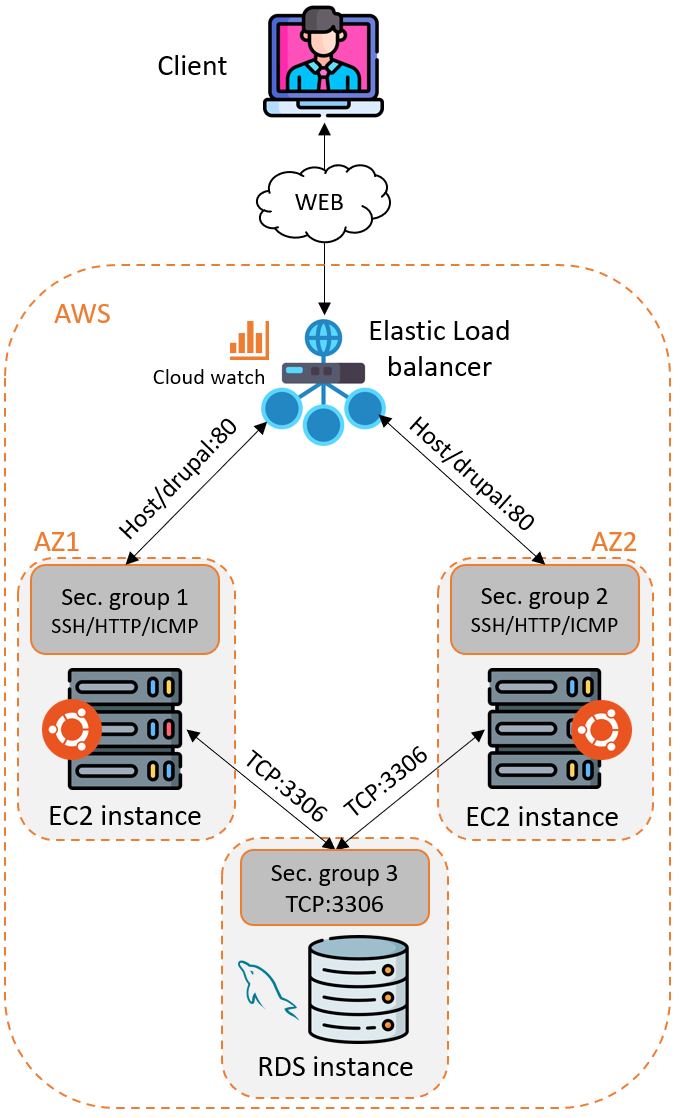
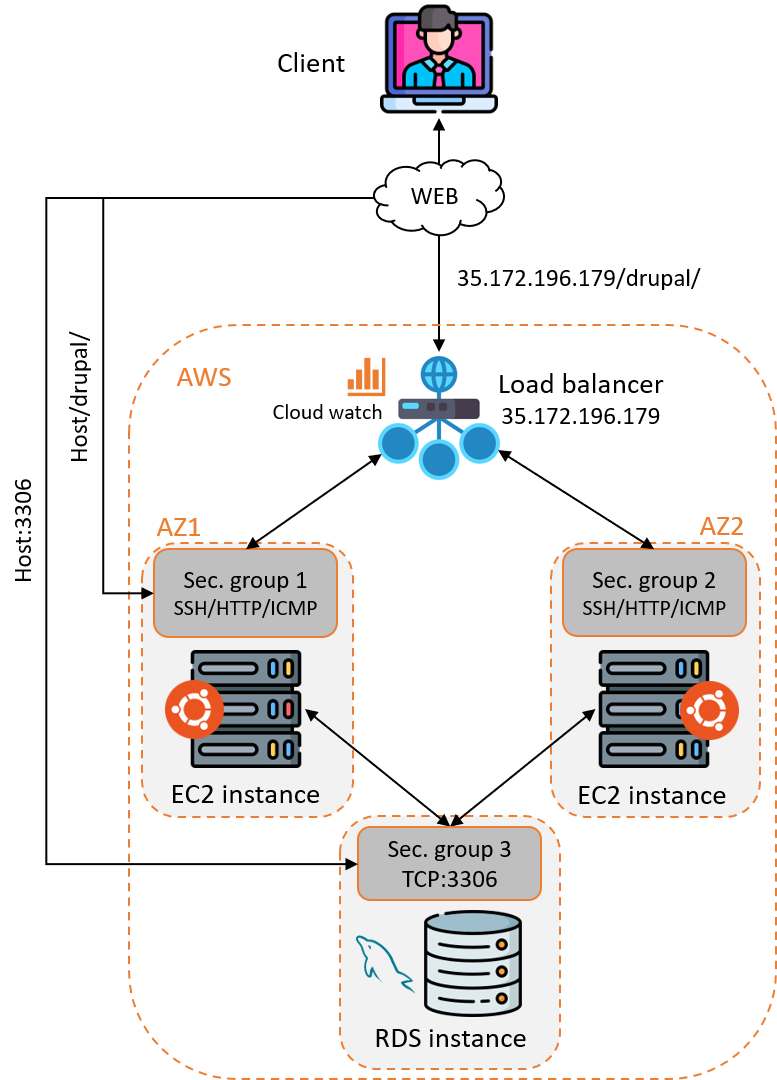
Small corrections

diff --git a/README.md b/README.md
@@ -15,10 +15,11 @@
 
 ## Introduction
 
-
 This document contains all the deliverables of the laboratory #2 of the CLD course. We will not include the precise procedure followed by our group along the lab, however, we will discuss some elements and configurations about this laboratory.
 
-## Create a database using RDS
+In this lab, we are going to create a RDS instance that runs MySQL, then we will migrate the Drupal database from our EC2 instance to the RDS one. After that we will create a load balancer to balance the traffic on 2 of our EC2 instances. Finally we will do some load tests with Jmeter and discuss the results.
+
+## Part 1: Create a database using RDS
 
 In this task, we had to create and configure a AWS RDS instance that runs MySQL 8.0.27.
 
@@ -94,13 +95,13 @@ We can see that the RDS is more expensive that the corresponding EC2 instance (5
 | Hardware lifecycle          | AWS                   | AWS                   |
 | Power, network, and cooling | AWS                   | AWS                   |
 
-We can see that a lot of feature is managed by AWS instead of the customer (fully managed), and this management has an extra cost. Now if we compare with on-premise management, it would be fully done by the user. So an IT manager would assume full responsibility for the server, operating system, and software.
+We can see that a lot of features are managed by AWS instead of the customer (fully managed), and this management has an extra cost. Now if we compare with on-premise management, it would be fully done by the user. So an IT manager would assume full responsibility for the server, operating system, and software.
 
 ### 1.3 RDS vs EC2 analysis 
 
 #### Arguments in favor of RDS
 
-RDS offers automatic backups and encryption. RDS takes full responsibility for the database. Configuration, management, maintenance, and security is automated by AWS. It allows to configure read replicas or set up synchronous replication across multiple AZ for enhanced performance and availability. It could be a huge time saver if we had to deploy a DB in multiple AZ with multiple stanbys, but time is money, so this solution is more expensive. Inspired by this [Source](https://serverguy.com/comparison/pros-cons-rds-vs-ec2-mysql-aws/)
+RDS offers automatic backups and encryption. RDS takes full responsibility for the database. Configuration, management, maintenance, and security is automated by AWS. It allows to configure read replicas or set up synchronous replication across multiple AZ for enhanced performance and availability. It could be a huge time saver if we had to deploy a DB in multiple AZ with multiple standbys, but time is money, so this solution is more expensive. Inspired by this [Source](https://serverguy.com/comparison/pros-cons-rds-vs-ec2-mysql-aws/)
 
 #### Arguments in favor of EC2 with DB engine
 
@@ -116,13 +117,13 @@ gru-vanhove-drupal-db.c4ryp0xx1ffk.us-east-1.rds.amazonaws.com
 
 
 
-## Configure Drupal instance to use the RDS DB
+## Part 2: Configure Drupal instance to use the RDS DB
 
 In this part we had to migrate the drupal DB from our EC2 instance to the RDS instance
 
 ## Deliverable 2
 
-2.1 Copy the part of **settings.php** that configures the database into the report.
+Here is the copy of  the part of **settings.php** that configures the database into the report.
 
 ```
 $databases['default']['default'] = array (
@@ -147,7 +148,11 @@ In this part we had to create an image of our EC2 instance. This image will be u
 
 ## Deliverable 3
 
+Here is the screenshot of the AWS console showing the AMI parameters.
+
 ![](figures/AMI.png)
+
+
 
 ## Part 4 : Create a load balancer
 
@@ -175,7 +180,7 @@ Addresses:  34.238.65.232
 172.31.86.211 - - [29/Mar/2023:07:59:36 +0000] "GET / HTTP/1.1" 200 3440 "-" "ELB-HealthChecker/2.0"
 ```
 
-## Part 5 : Lauch a second instance from the custom image
+## Part 5 : Launch a second instance from the custom image
 
 In this task we had to launch a second Drupal instance and connect it to the load balancer.
 
@@ -185,7 +190,7 @@ In this task we had to launch a second Drupal instance and connect it to the loa
 
    ![](figures/Architecture.png)
 
-   Note that in the diagram, we can see that the 2 EC2 instances are in different availability zones. This is not the case in our configuration, they are in the same AZ. We simply wanted to show that it could be the case as we configured our load balancer to be able to redirect the traffic from 2 different ones. In our configuration the RDS is also in the same AZ (us-east-1b)
+   Note that in the diagram, we can see that the 2 EC2 instances are in different availability zones. This is not the case in our configuration, they are in the same AZ. We simply wanted to show that it could be the case as we configured our load balancer to be able to redirect the traffic from 2 different ones. In our configuration the RDS is also in the same AZ (us-east-1b).
 
 2. Here is the estimated monthly costs for using our setup, including the 2 EC2 instances, the elastic load-balancer and the RDS instance. As asked in the lab we did it with the [Simple Monthly Calculator](http://calculator.s3.amazonaws.com/calc5.html), but this calculator will not be available after **Friday, March 31, 2023**.
 
@@ -197,13 +202,13 @@ In this task we had to launch a second Drupal instance and connect it to the loa
 
 ### Configuration of JMeter
 
-We except the number of threads, have configured jmeter as follows:
+Except the number of threads, have configured jmeter as follows:
 
 1. Thread Group: Ramp-up period: `1 second`, Loop Count: `1`
 2. HTTP Request Defaults: ip of the load balancer : `34.238.65.232`
 3. HTTP Cookie Manager: basic configuration
 4. HTTP request: `GET` on `/drupal/`
-5. We used a response time graph and an aggregate report to study the results
+5. We used a response time graph, a restult tree and an aggregate report to study the results
 
 ### Environment
 
@@ -270,7 +275,7 @@ At 200 threads, we begin to see a bigger response time (RT). However, the server
 
 ### 400 users
 
-at 400 threads, The number of errors increased to reach 25%. The response time begin to be very high, with a median RT at 7.2 seconds.
+at 400 threads, The number of timed-out requests increased to reach 25%. The response time begin to be high, with a median RT at 7.2 seconds.
 
 | # Requests | Average RT [ms] | Median RT [ms] | Min RT [ms] | Max RT [ms] | % error |
 | ---------- | --------------- | -------------- | ----------- | ----------- | ------- |
@@ -282,7 +287,7 @@ at 400 threads, The number of errors increased to reach 25%. The response time b
 
 ### 800 users
 
-At 800 threads, we can clearly see that the response time is no longer viable, with a median at 17 seconds. The servers can not handle the throughput, as we can see 73% of error responses.
+At 800 threads, we can clearly see that the response time is no longer viable, with a median at 17 seconds. The servers can not handle the throughput, as we can see 73% of timed-out requests.
 
 | # Requests | Average RT [ms] | Median RT [ms] | Min RT [ms] | Max RT [ms] | % error |
 | ---------- | --------------- | -------------- | ----------- | ----------- | ------- |
@@ -292,17 +297,25 @@ At 800 threads, we can clearly see that the response time is no longer viable, w
 
 
 
+### Errors received
+
+Every error that we received is a `Connection timed out` , it means that for a request sent, Jmeter did not receive a response from the server.
+
+ ![](figures/error.png)
+
+
+
 ### Bottleneck of the system
 
-It is interesting to see that the CPU usage of our 2 instances is very low in spite of the bad response time. It indicates that this is not the bottleneck of our system. Furthermore, we can see in the graphs below that the UC usage of our RDS instance is also very low (the peek at the beginning is the instance starting up).
+It is interesting to see that the CPU usage of our 2 instances is very low in spite of the bad response time ([see the CPU load graph here](#Check-that-the-load-balancer-works)). It indicates that this is not the bottleneck of our system. Furthermore, we can see in the graphs below that the UC usage of our RDS instance is also very low (the peek at the beginning is the instance starting up).
 
 ![](figures/RDS_usage.png)
 
-Now what is interesting, is the number of the requests received by the load balancer:
+Now what is interesting, is the number of the requests received by the load balancer. The text in red indicates the number of requests sent from our laptop.
 
 ![](figures/LoadBalancer_request_count.png)
 
-In the graph above, we can clearly see that the load balancer does not receive the amount of requests that we sent. We can see in the following table, that the % of loss of packets is equivalent to the % of loss in JMeter.
+In the graph above, we can clearly see that the load balancer does not receive the amount of requests that we sent. We can see in the following table, that the % of timed-out requests is equivalent to the % of errors in JMeter.
 
 | Sent requests | Received requests | % loss |
 | ------------- | ----------------- | ------ |
@@ -311,7 +324,7 @@ In the graph above, we can clearly see that the load balancer does not receive t
 | 400           | 300               | 25%    |
 | 800           | 250               | 68%    |
 
-We can conclude that the load balancer works fine, but a great amount of the requests sent to the it is lost, or somehow rejected before reaching the ALB. So the bottleneck is probably outside of the AWS network. It is maybe linked to the environment of the tests, for example the limitations of the laptop wireless NIC or the VPN capabilities.
+We can conclude that the load balancer works fine, but a great amount of the requests sent to it, is lost, or somehow dropped before reaching the ELB.
 
 
 
@@ -349,10 +362,11 @@ The order of the IP addresses returned by the DNS resolver may change from time 
 
 ### Tests conclusion
 
-We can see that with 400 and 800 requests we begin to have error response and the response time is becoming too high for a good user experience. furthermore, we have seen in the graphs that the CPU load in our 2 instance and our RDS instance was not very high.
+We can see that with 400 and 800 requests we begin to have time-outs and the response time is becoming too high for a good user experience. furthermore, we have seen that the ELB does not receive all the requests and that in the graphs the CPU load in our 2 instance and our RDS instance was not very high (barely exceeding 1.6% usage for our EC2 instances and 3 % for the RDS instance). Based on the results we provided, it appears that our configuration has 2 major bottlenecks:
 
-Based on the results we provided, it appears that the bottleneck in our configuration may not be related to the AWS network because some requests are not received by the load balancer. In terms of load balancing, our opinion is that configuration did test the load balancing mechanism of our Application Load Balancer by distributing the traffic among your EC2 instances. However, the high percentage of error responses and long response times not imputable to the AWS infrastructure cannot be precisely diagnosed.
+1. The first bottleneck is clearly the response time-outs that are caused outside of the AWS network. It is maybe linked to the environment of the tests, for example the limitations of the laptop wireless NIC , the VPN capabilities or the school network. We must also emphasis the fact that the AWS regions are far away from Switzerland.
+2. The second bottleneck may be inside the AWS infrastructure. The ELB or EC2 instances have no problem responding to the incoming requests, but the limitations are with the network interfaces of our EC2 instances that can not keep up with the traffic and adds more and more latency. The second bottleneck can also be caused by the the limitations of the laptop wireless NIC , the VPN capabilities and the school network, that adds more and more response latency with the traffic increasing.
 
-The limitations of this simple test include the fact that it does not take into account the diversity of traffic patterns that may occur in a real-world scenario, as well as the fact that it is limited to a specific set of test conditions. A more diverse set of tests that simulate real-world scenarios would be necessary to fully test the system's performance and identify any potential issues or bottlenecks.
+In terms of load balancing, our opinion is that the configuration did test the load balancing mechanism of our Application Load Balancer by distributing the traffic among your EC2 instances. The limitations of this simple test include the fact that it does not take into account the diversity of traffic patterns that may occur in a real-world scenario, as well as the fact that it is limited to a specific set of test conditions. A more diverse set of tests that simulate real-world scenarios would be necessary to fully test the system's performance and identify any potential issues or bottlenecks.
 
-To perform realistic testing, we could use different types of requests, varying the frequency and intensity of requests, and simulating different user behaviors and patterns. Additionally, we could consider testing the system under different conditions, such as during peak traffic hours or with high levels of concurrent users. 
+To perform realistic testing, we could use different types of requests, varying the frequency and intensity of requests, and simulating different user behaviour and patterns. Additionally, we could consider testing the system under different conditions, such as during peak traffic hours or with high levels of concurrent users. 
